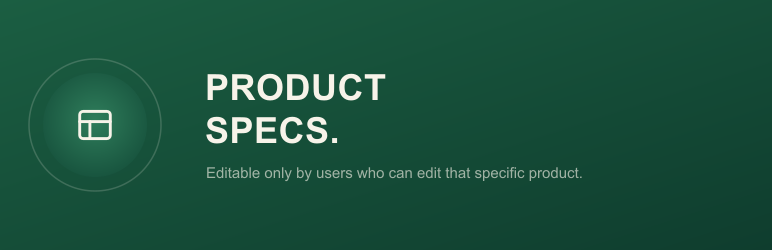
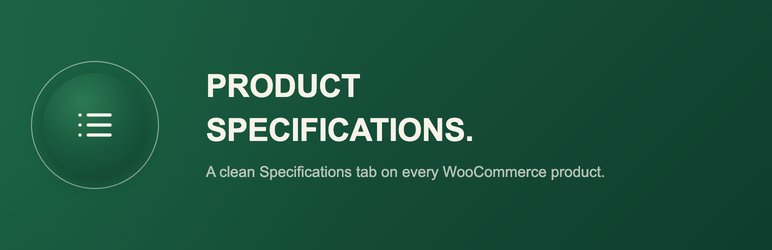
Add WordPress.org assets and 'What makes it different' readme section
- Icon, banners (both sizes) and two screenshots.
- Short description and plugin header now say what the plugin does; the security section
  no longer describes other tools.

diff --git a/hdwebmobile-product-specifications.php b/hdwebmobile-product-specifications.php
@@ -3,7 +3,7 @@
 /**
  * Plugin Name: HDWebmobile Product Specifications
  * Plugin URI: https://hdwebmobile.com/plugins/hdwebmobile-product-specifications/
- * Description: Add a specifications table to any product -- editable only by users who can edit that specific product.
+ * Description: Add a Specifications tab with label / value rows (material, size, weight...) to any WooCommerce product.
  * Version: 1.0.0
  * Author: htrxuan - Han Tran
  * Author URI: https://hdwebmobile.com/
